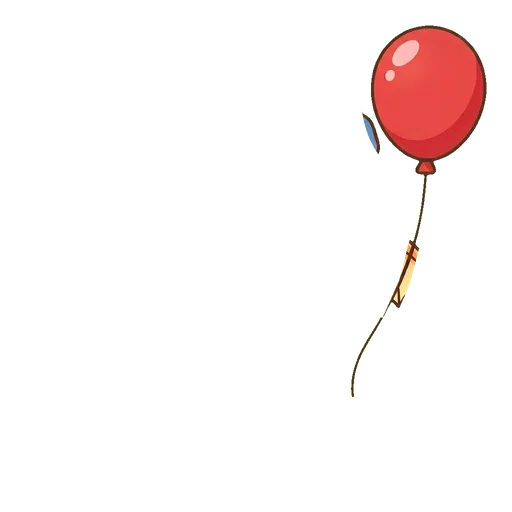
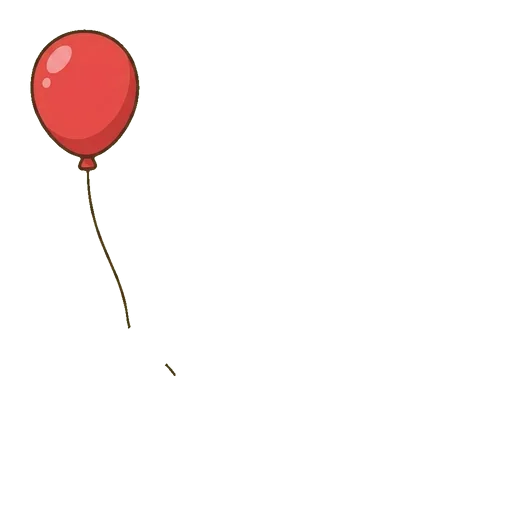
feat: balloon art fixed by hand
Claude-Session: https://claude.ai/code/session_01TMuZkMJP4hzkW6LA5qD8Qx

diff --git a/assets-src/PROMPTS.md b/assets-src/PROMPTS.md
@@ -181,7 +181,7 @@ In the attached image keep only FRONT, exactly where it is, with the same size, 
 | `acc-backpack.jpg` | a small orange backpack on the back, its straps visible over the shoulders | done 2026-10-21 (with `acc-backpack-front.jpg`: straps over the body) |
 | `acc-lantern.jpg` | a small lantern in the right hand | done 2026-10-21 (the wire handle has a small gap at the top) |
 | `acc-wand.jpg` | hand: ITEM = a small magic wand with a golden star on top, held in the right hand | done 2026-10-21 (fixed by hand in GIMP: the generator kept moving the paw) |
-| `acc-balloon.jpg` | hand: ITEM = a red balloon on a thin string, the string held in the left hand | a small blue stray piece next to the balloon, an orange bit on the string |
+| `acc-balloon.jpg` | hand: ITEM = a red balloon on a thin string, the string held in the left hand | done 2026-10-21 (fixed by hand in GIMP) |
 | `acc-boots.jpg` | feet: ITEM = brown boots on the feet | thin dark lines left above the boots |
 
 Fixed in code, no new picture needed: green spots in `heart-glasses` lenses (done 2026-10-21). Pink sneakers: their back side showed; fixed by hand in GIMP in `outfit-f.jpg` (done 2026-10-21).
